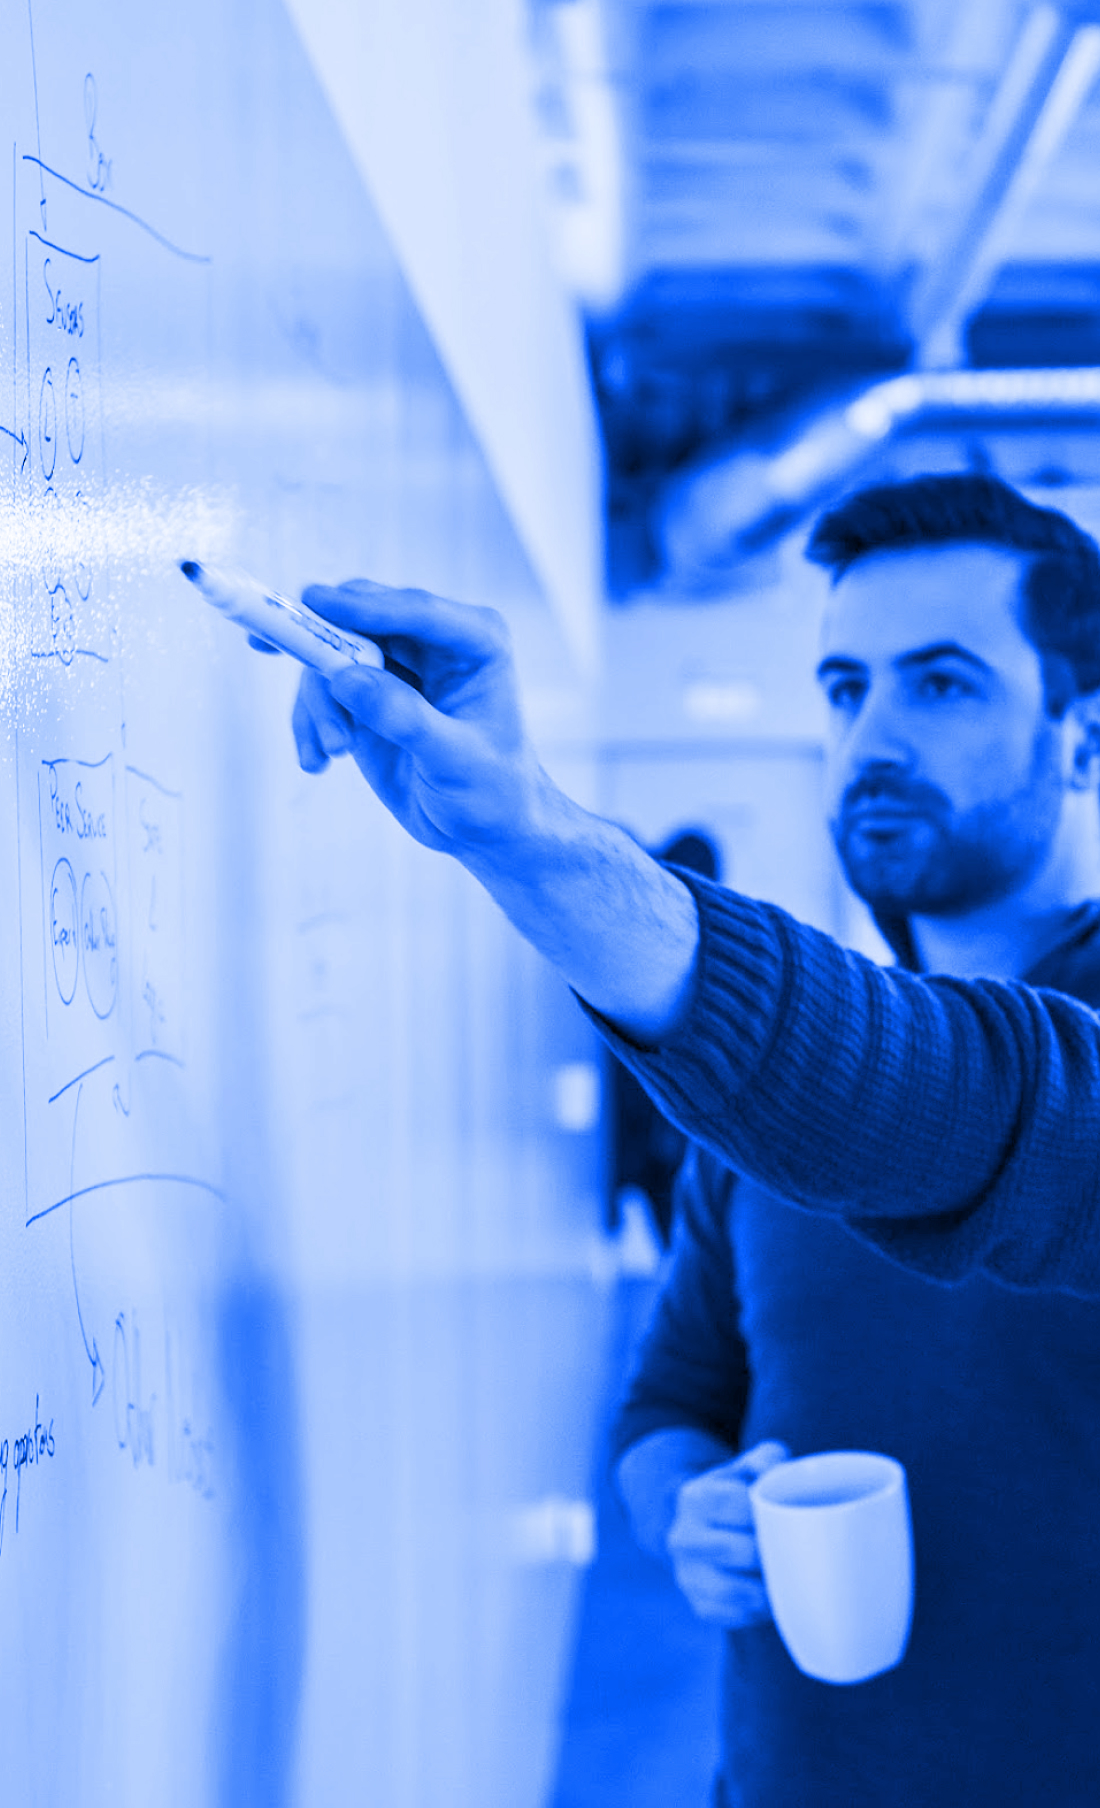
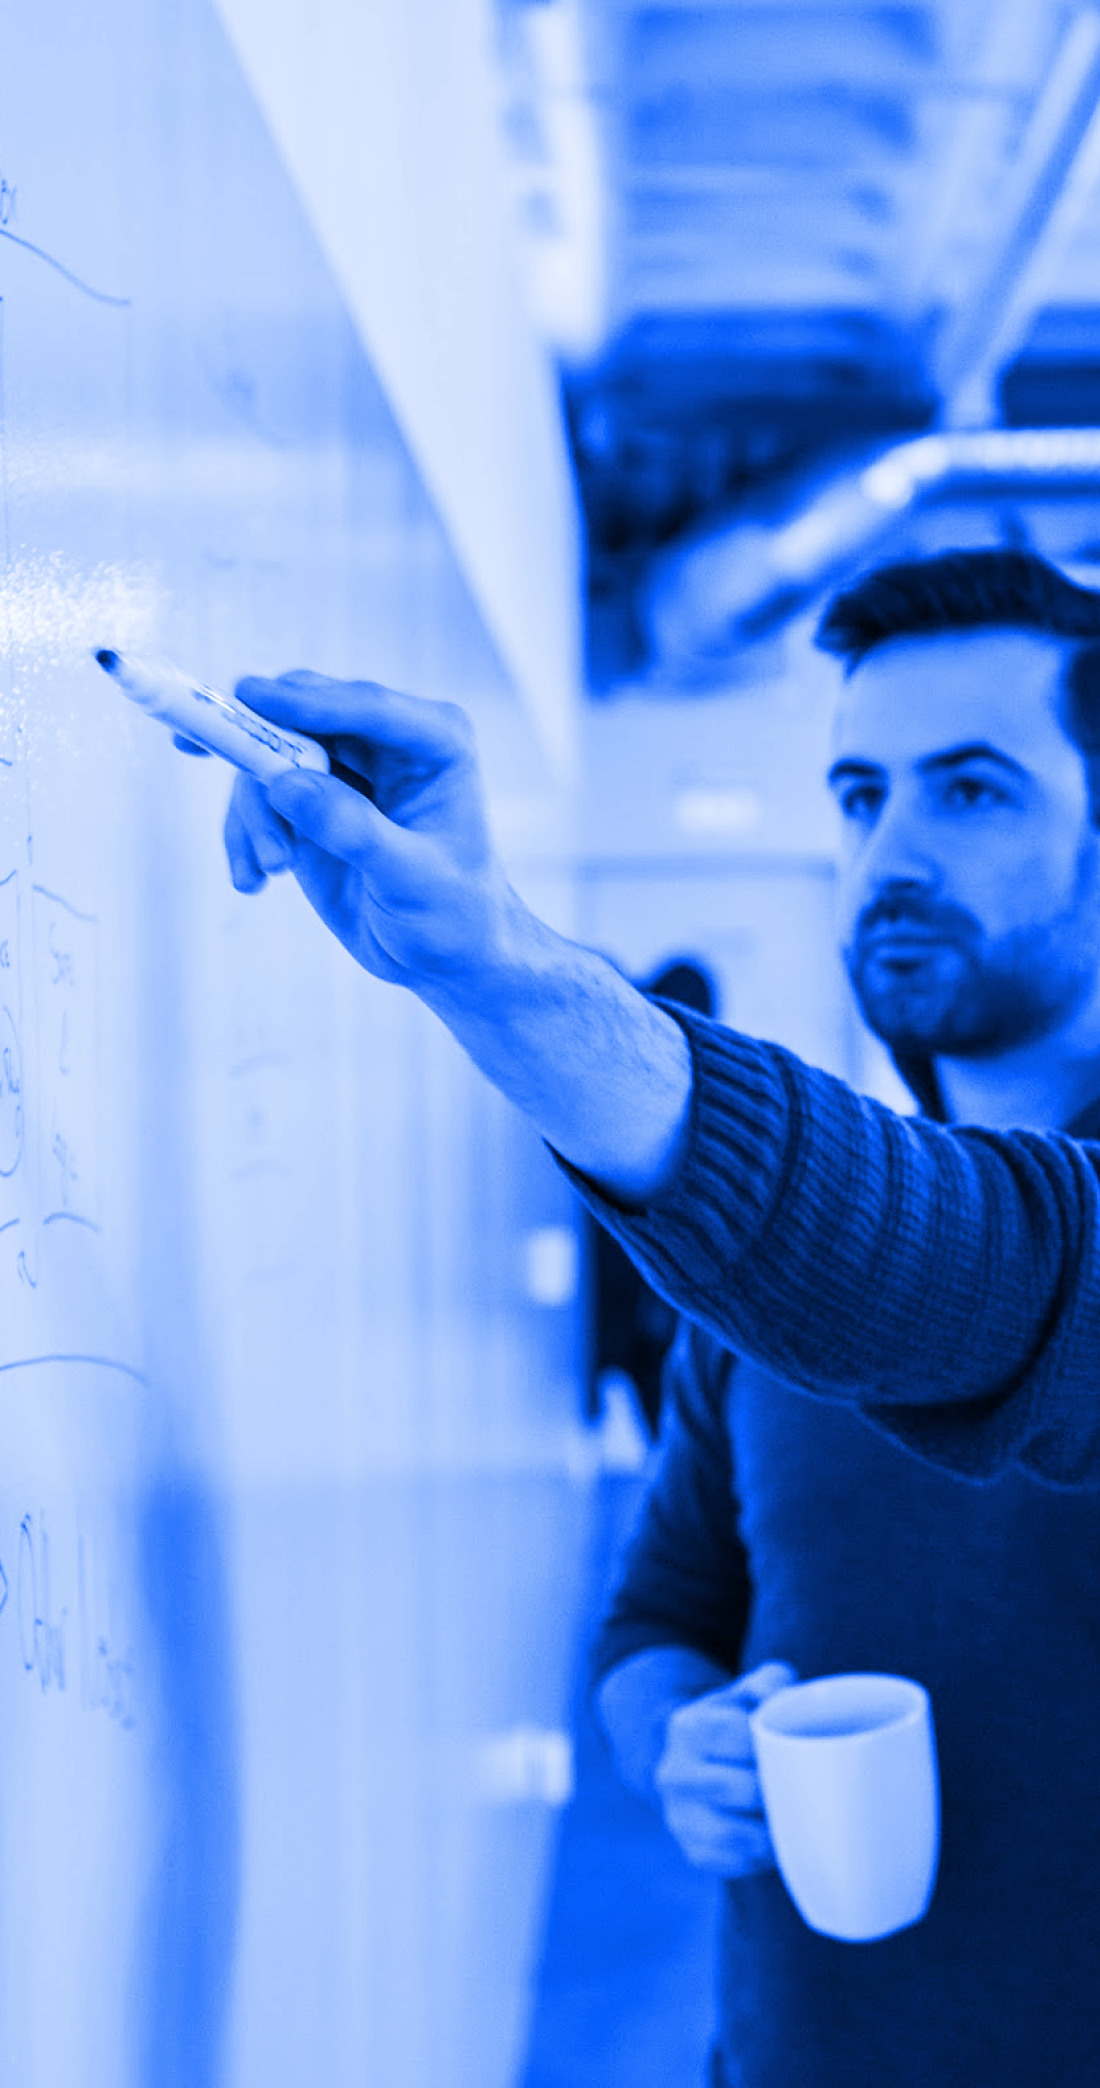
Add ParallaxBanners to Hero images
Uses `react-scroll-parallax` for the effect

diff --git a/src/components/home/Hero/index.js b/src/components/home/Hero/index.js
@@ -2,6 +2,7 @@ import React from "react"
 import PropTypes from "prop-types"
 import Img from "gatsby-image"
 import { StaticQuery, graphql } from "gatsby"
+import { ParallaxProvider, ParallaxBanner } from "react-scroll-parallax"
 
 import CallToAction from "../../CallToAction"
 import LoadPlaceholder from "../../LoadPlaceholder"
@@ -10,119 +11,108 @@ import Title from "./Title"
 
 import "./index.module.css"
 
+const renderParallaxImage = ({ baseDelay, image, parallaxAmount }) => (
+  <ParallaxBanner
+    layers={[
+      {
+        children: (
+          <LoadPlaceholder delay={baseDelay}>
+            {onLoad => (
+              <Img
+                fadeIn={false}
+                onLoad={onLoad}
+                fluid={image}
+                imgStyle={{ display: "block" }}
+                style={{ height: "100%" }}
+              />
+            )}
+          </LoadPlaceholder>
+        ),
+        amount: parallaxAmount,
+      },
+    ]}
+  />
+)
+
 const Hero = ({ data, planetMorph }) => {
   const baseDelay = 0.3
 
   return (
-    <div styleName="root">
-      <div styleName="content">
-        <div styleName="title">
-          <Title planetMorph={planetMorph} />
-        </div>
-        <div styleName="text">
-          <p>
-            <Text>
-              Building a company from the ground up is hard and stressful,
-              particularly in heavy regulated fields such as fintech and digital
-              healthcare.
-            </Text>
-          </p>
-          <p>
-            <Text>
-              Struggling with designing and developing that awesome idea you’ve
-              had? We can help you succeed.{" "}
-              <CallToAction>Together.</CallToAction>
-            </Text>
-          </p>
-        </div>
-        <div styleName="images">
-          <div styleName="image">
-            <div styleName="horizontal">
-              <LoadPlaceholder delay={baseDelay}>
-                {onLoad => (
-                  <Img
-                    fadeIn={false}
-                    onLoad={onLoad}
-                    fluid={data.hero1_h.childImageSharp.fluid}
-                    imgStyle={{ display: "block" }}
-                    style={{ height: "100%" }}
-                  />
-                )}
-              </LoadPlaceholder>
-            </div>
-            <div styleName="vertical">
-              <LoadPlaceholder delay={baseDelay}>
-                {onLoad => (
-                  <Img
-                    fadeIn={false}
-                    onLoad={onLoad}
-                    fluid={data.hero1_v.childImageSharp.fluid}
-                    imgStyle={{ display: "block" }}
-                    style={{ height: "100%" }}
-                  />
-                )}
-              </LoadPlaceholder>
-            </div>
+    <ParallaxProvider>
+      <div styleName="root">
+        <div styleName="content">
+          <div styleName="title">
+            <Title planetMorph={planetMorph} />
           </div>
-          <div styleName="image">
-            <div styleName="horizontal">
-              <LoadPlaceholder delay={baseDelay + 0.1}>
-                {onLoad => (
-                  <Img
-                    fadeIn={false}
-                    onLoad={onLoad}
-                    fluid={data.hero2_h.childImageSharp.fluid}
-                    imgStyle={{ display: "block" }}
-                    style={{ height: "100%" }}
-                  />
-                )}
-              </LoadPlaceholder>
-            </div>
-            <div styleName="vertical">
-              <LoadPlaceholder delay={baseDelay + 0.1}>
-                {onLoad => (
-                  <Img
-                    fadeIn={false}
-                    onLoad={onLoad}
-                    fluid={data.hero2_v.childImageSharp.fluid}
-                    imgStyle={{ display: "block" }}
-                    style={{ height: "100%" }}
-                  />
-                )}
-              </LoadPlaceholder>
-            </div>
+          <div styleName="text">
+            <p>
+              <Text>
+                Building a company from the ground up is hard and stressful,
+                particularly in heavy regulated fields such as fintech and
+                digital healthcare.
+              </Text>
+            </p>
+            <p>
+              <Text>
+                Struggling with designing and developing that awesome idea
+                you’ve had? We can help you succeed.{" "}
+                <CallToAction>Together.</CallToAction>
+              </Text>
+            </p>
           </div>
-          <div styleName="image">
-            <div styleName="horizontal">
-              <LoadPlaceholder delay={baseDelay + 0.2}>
-                {onLoad => (
-                  <Img
-                    fadeIn={false}
-                    onLoad={onLoad}
-                    fluid={data.hero3_h.childImageSharp.fluid}
-                    imgStyle={{ display: "block" }}
-                    style={{ height: "100%" }}
-                  />
-                )}
-              </LoadPlaceholder>
+          <div styleName="images">
+            <div styleName="image">
+              <div styleName="horizontal">
+                {renderParallaxImage({
+                  baseDelay,
+                  image: data.hero1_h.childImageSharp.fluid,
+                  parallaxAmount: 0.2,
+                })}
+              </div>
+              <div styleName="vertical">
+                {renderParallaxImage({
+                  baseDelay,
+                  image: data.hero1_v.childImageSharp.fluid,
+                  parallaxAmount: 0.2,
+                })}
+              </div>
             </div>
-            <div styleName="vertical">
-              <LoadPlaceholder delay={baseDelay + 0.2}>
-                {onLoad => (
-                  <Img
-                    fadeIn={false}
-                    onLoad={onLoad}
-                    fluid={data.hero3_v.childImageSharp.fluid}
-                    imgStyle={{ display: "block" }}
-                    style={{ height: "100%" }}
-                  />
-                )}
-              </LoadPlaceholder>
+            <div styleName="image">
+              <div styleName="horizontal">
+                {renderParallaxImage({
+                  baseDelay: baseDelay + 0.1,
+                  image: data.hero2_h.childImageSharp.fluid,
+                  parallaxAmount: 0.2,
+                })}
+              </div>
+              <div styleName="vertical">
+                {renderParallaxImage({
+                  baseDelay: baseDelay + 0.1,
+                  image: data.hero2_v.childImageSharp.fluid,
+                  parallaxAmount: 0.2,
+                })}
+              </div>
+            </div>
+            <div styleName="image" id="lixo">
+              <div styleName="horizontal">
+                {renderParallaxImage({
+                  baseDelay: baseDelay + 0.2,
+                  image: data.hero3_h.childImageSharp.fluid,
+                  parallaxAmount: 0.2,
+                })}
+              </div>
+              <div styleName="vertical">
+                {renderParallaxImage({
+                  baseDelay: baseDelay + 0.2,
+                  image: data.hero3_v.childImageSharp.fluid,
+                  parallaxAmount: 0.2,
+                })}
+              </div>
             </div>
           </div>
         </div>
       </div>
-    </div>
+    </ParallaxProvider>
   )
 }
 

diff --git a/src/common/reset.css b/src/common/reset.css
@@ -36,7 +36,8 @@ address {
 
 .visuallyHidden {
   position: absolute !important;
-  height: 1px; width: 1px;
+  height: 1px;
+  width: 1px;
   overflow: hidden;
   clip: rect(1px 1px 1px 1px); /* IE6, IE7 */
   clip: rect(1px, 1px, 1px, 1px);

diff --git a/src/common/normalize.css b/src/common/normalize.css
@@ -1,5 +1,6 @@
 @import './fonts.css';
 @import './reset.css';
+@import './react-scroll-parallax.css'
 
 html,
 body {

diff --git a/src/components/home/Hero/index.module.css b/src/components/home/Hero/index.module.css
@@ -40,7 +40,6 @@
 }
 
 @media (min-width: 320px) {
-
   .images {
     grid-template-rows: 168px 168px 224px;
   }

diff --git a/src/common/react-scroll-parallax.css b/src/common/react-scroll-parallax.css
@@ -1,0 +1,3 @@
+.parallax-banner {
+  position: unset !important;
+}
